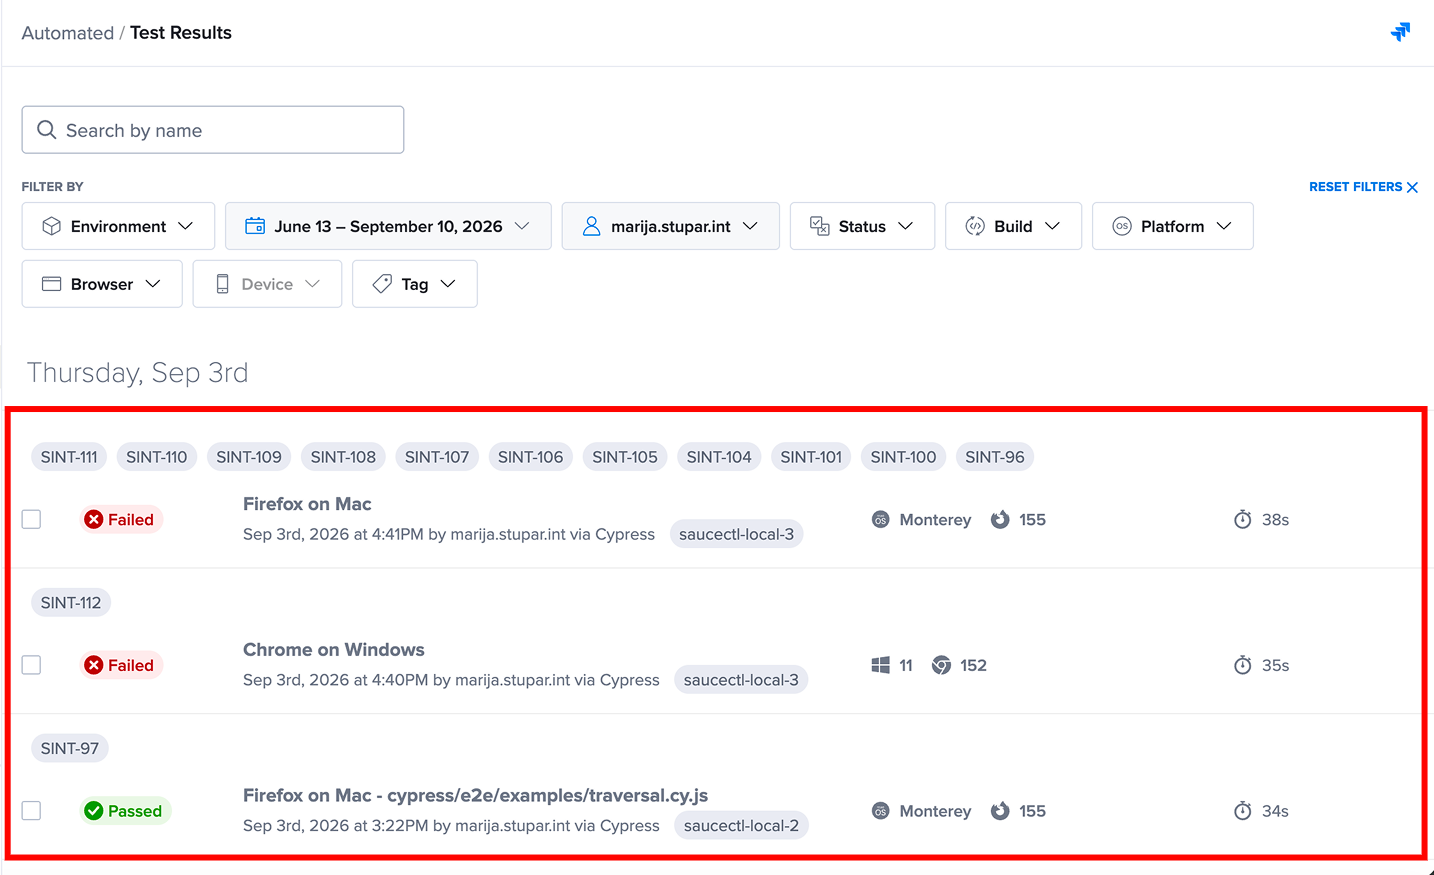
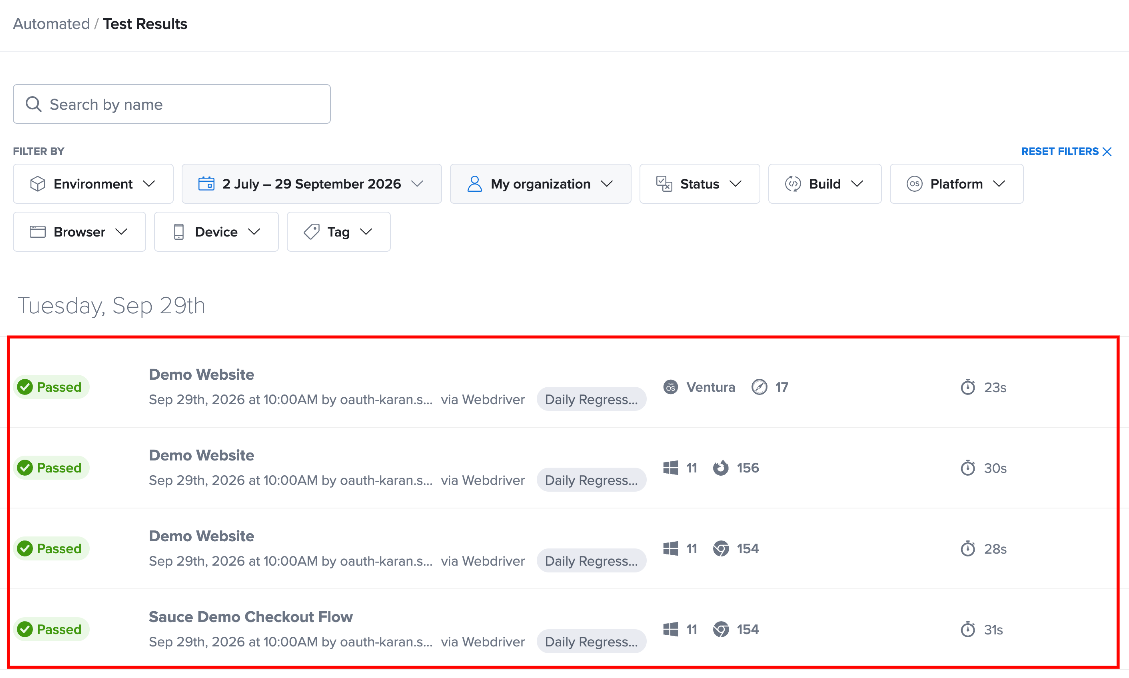
Address Slack docs feedback: Saucebot fix, prod screenshot, unlist page

diff --git a/sidebars.js b/sidebars.js
@@ -691,7 +691,6 @@ module.exports = {
                                 'basics/integrations/appdome',
                                 'basics/integrations/testrail',
                                 'basics/integrations/webhooks',
-                                'basics/integrations/slack',
                             ],
                         },
                     ],

diff --git a/docs/basics/integrations/slack.md b/docs/basics/integrations/slack.md
@@ -2,6 +2,8 @@
 id: slack
 title: Slack (Beta)
 sidebar_label: Slack (Beta)
+description: Connect Sauce Labs to Slack to send test results and alerts to your Slack channels.
+unlisted: true
 ---
 
 import useBaseUrl from '@docusaurus/useBaseUrl';
@@ -252,4 +254,4 @@ On the Slack configuration page, locate the workspace you want to disconnect, se
 
 <img src={useBaseUrl('/img/integrations/slack/slack-26.png')} alt="Disconnect option in the workspace More options menu"/>
 
-The workspace is disconnected from Sauce Labs, and the Slackbot integration is also disconnected from your Slack workspace. Other Slack workspaces connected to your Sauce Labs organization remain unaffected.
+The workspace is disconnected from Sauce Labs, and the Saucebot integration is also disconnected from your Slack workspace. Other Slack workspaces connected to your Sauce Labs organization remain unaffected.
